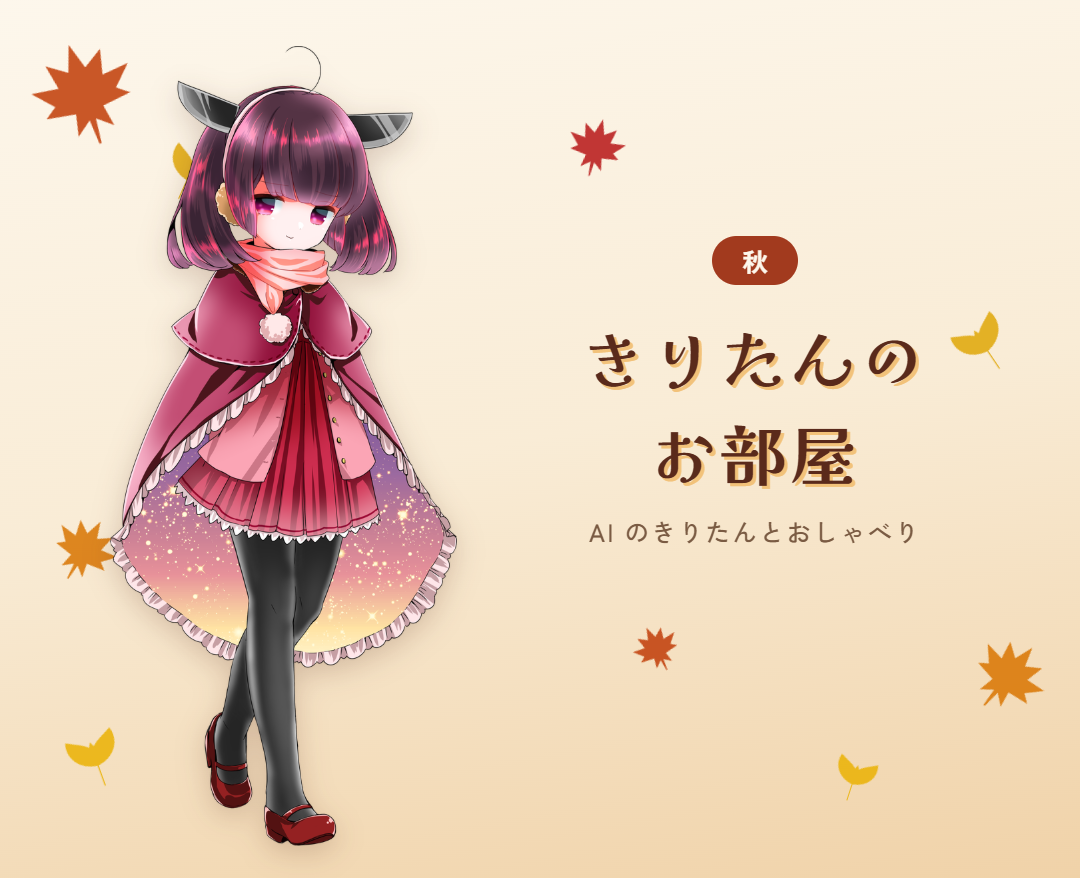
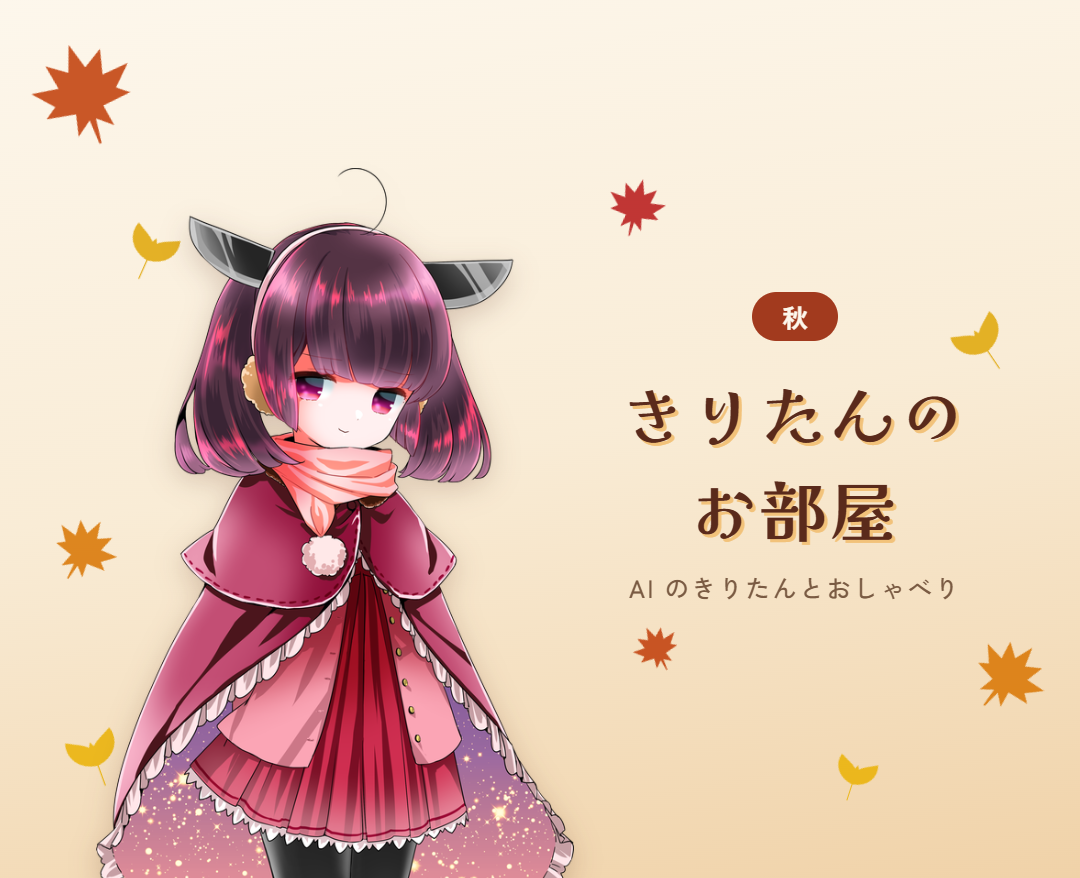
fix: プロフィール背景を 2:1 に切り抜いても顔と文字が残る構図にする (#29)

diff --git a/assets/line-autumn/background.html b/assets/line-autumn/background.html
@@ -8,7 +8,8 @@
 
   * { margin: 0; padding: 0; box-sizing: border-box; }
 
-  /* LINE のプロフィール背景は 1080x878. 下中央にアイコン, 右上にボタンが重なるので, そこには何も置かない */
+  /* LINE のプロフィール背景は 1080x878. プロフィールページでは上下が切れて 1080x562 ほど (y 159〜719) しか見えないので,
+     顔と文字はその帯に入れる. トークのポップアップでは下中央にアイコン, 右上にボタンが重なるので, そこには何も置かない */
   html, body { width: 1080px; height: 878px; }
 
   body {
@@ -23,16 +24,16 @@
 
   .kiritan {
     position: absolute;
-    left: 110px;
-    top: 46px;
-    height: 800px;
+    left: 96px;
+    top: 168px;
+    height: 1100px;
     filter: drop-shadow(0 8px 14px rgba(90, 42, 27, 0.22));
   }
 
   .title {
     position: absolute;
-    left: 520px;
-    top: 236px;
+    left: 560px;
+    top: 292px;
     width: 470px;
     text-align: center;
   }
@@ -75,10 +76,10 @@
     </defs>
     <g opacity="0.88">
       <use href="#maple" fill="#c2410c" transform="translate(28 40) rotate(-18 50 50) scale(1.1)"/>
-      <use href="#ginkgo" fill="#e0a80d" transform="translate(150 150) rotate(24 50 50) scale(0.6)"/>
+      <use href="#ginkgo" fill="#e0a80d" transform="translate(110 230) rotate(24 50 50) scale(0.6)"/>
       <use href="#maple" fill="#d97706" transform="translate(40 520) rotate(30 50 50) scale(0.7)"/>
       <use href="#ginkgo" fill="#eab308" transform="translate(70 720) rotate(-20 50 50) scale(0.62)"/>
-      <use href="#maple" fill="#b91c1c" transform="translate(560 120) rotate(14 50 50) scale(0.62)"/>
+      <use href="#maple" fill="#b91c1c" transform="translate(600 180) rotate(14 50 50) scale(0.62)"/>
       <use href="#ginkgo" fill="#e0a80d" transform="translate(960 300) rotate(-34 50 50) scale(0.62)"/>
       <use href="#maple" fill="#c2410c" transform="translate(640 610) rotate(-26 50 50) scale(0.5)"/>
       <use href="#maple" fill="#d97706" transform="translate(960 640) rotate(40 50 50) scale(0.8)"/>

diff --git a/docs/linebot_setup.md b/docs/linebot_setup.md
@@ -7,7 +7,7 @@
 |---|---|
 | アカウント名 | きりたんトーク |
 | アイコン | `assets/line_icon.png` (640x640) |
-| 背景画像 | `assets/line-autumn/background.png` (1080x878、秋版) |
+| 背景画像 | `assets/line-autumn/background.png` (1080x878、秋版。ビジネスプロフィールで上げるときは 2:1 で切り抜くので、横幅いっぱい・y 169〜709 を選ぶ) |
 | ステータスメッセージ | 東北きりたんとおしゃべりできるAIチャット |
 
 ### あいさつメッセージ
